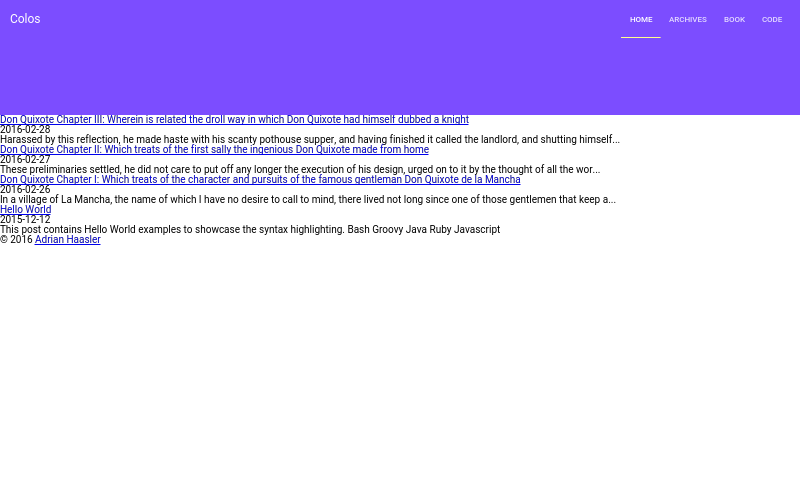
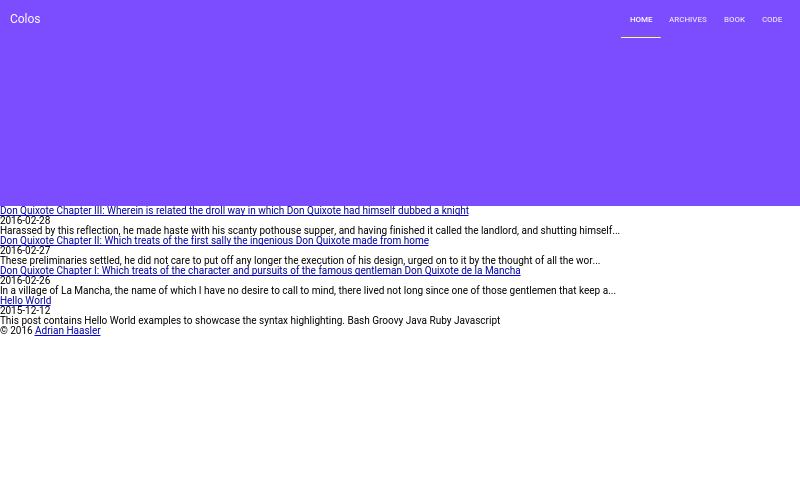
Adjust CSS to app-header and app-toolbar
This is part of #26.

Built from 201981ce1fae1920d449608d9d366b36f91c0955.

Changed region(s): [[0.0, 0.21, 1.0, 0.69]]

diff --git a/source/css/main.css b/source/css/main.css
@@ -3,4 +3,4 @@ http://meyerweb.com/eric/tools/css/reset/
 v2.0 | 20110126
 License: none (public domain)
 */a,abbr,acronym,address,applet,article,aside,audio,b,big,blockquote,body,canvas,caption,center,cite,code,dd,del,details,dfn,div,dl,dt,em,embed,fieldset,figcaption,figure,footer,form,h1,h2,h3,h4,h5,h6,header,hgroup,html,i,iframe,img,ins,kbd,label,legend,li,mark,menu,nav,object,ol,output,p,pre,q,ruby,s,samp,section,small,span,strike,strong,sub,summary,sup,table,tbody,td,tfoot,th,thead,time,tr,tt,u,ul,var,video{margin:0;padding:0;border:0;font-size:100%;font:inherit;vertical-align:baseline}
-/* HTML5 display-role reset for older browsers */article,aside,details,figcaption,figure,footer,header,hgroup,menu,nav,section{display:block}body{line-height:1}ol,ul{list-style:none}blockquote,q{quotes:none}blockquote:after,blockquote:before,q:after,q:before{content:'';content:none}table{border-collapse:collapse;border-spacing:0}h1,h2,h3,h4,h5,h6{color:rgba(0,0,0,.9)}body{font-family:Roboto,sans-serif}app-drawer-layout>#contentContainer:not(.narrow){margin-left:0!important}app-drawer-layout>#contentContainer:not(.narrow)+app-drawer{visibility:hidden!important}app-drawer-layout>.narrow paper-tabs{display:none!important}app-toolbar{background-color:#7c4dff}app-toolbar a{color:#fff;text-decoration:none}app-toolbar paper-tabs{height:100%!important}app-toolbar paper-tabs paper-tab{text-transform:uppercase}app-toolbar paper-tabs paper-tab[link] a{padding:0 1em}.highlight,pre{background:#212121;color:#f5f5f5}.highlight .string,pre .string{color:#ffeb3b}.highlight .comment,pre .comment{color:#727272}.highlight .keyword,pre .keyword{color:#ff4081}.highlight .built_in,pre .built_in{color:#00bcd4}.highlight .number,.literal,pre .number{color:#7c4dff}.highlight.bash .shebang,pre.bash .shebang{color:#727272}.highlight.bash .variable,pre.bash .variable{color:#b6b6b6}.highlight.bash .title,pre.bash .title{color:#8bc34a}
+/* HTML5 display-role reset for older browsers */article,aside,details,figcaption,figure,footer,header,hgroup,menu,nav,section{display:block}body{line-height:1}ol,ul{list-style:none}blockquote,q{quotes:none}blockquote:after,blockquote:before,q:after,q:before{content:'';content:none}table{border-collapse:collapse;border-spacing:0}h1,h2,h3,h4,h5,h6{color:rgba(0,0,0,.9)}body{font-family:Roboto,sans-serif}app-drawer-layout>#contentContainer:not(.narrow){margin-left:0!important}app-drawer-layout>#contentContainer:not(.narrow)+app-drawer{visibility:hidden!important}app-drawer-layout>.narrow paper-tabs{display:none!important}app-header{color:#fff;background-color:#7c4dff}app-toolbar.middle{height:10em}app-toolbar.bottom{height:4em}app-toolbar a{color:#fff;text-decoration:none}app-toolbar [title]{position:absolute;margin-left:2em;font-size:1.6em;font-weight:300}app-toolbar [condensed-title]{margin-left:1.2em;font-weight:300}app-toolbar paper-tabs{height:100%!important}app-toolbar paper-tabs paper-tab{text-transform:uppercase}app-toolbar paper-tabs paper-tab[link] a{padding:0 1em}.highlight,pre{background:#212121;color:#f5f5f5}.highlight .string,pre .string{color:#ffeb3b}.highlight .comment,pre .comment{color:#727272}.highlight .keyword,pre .keyword{color:#ff4081}.highlight .built_in,pre .built_in{color:#00bcd4}.highlight .number,.literal,pre .number{color:#7c4dff}.highlight.bash .shebang,pre.bash .shebang{color:#727272}.highlight.bash .variable,pre.bash .variable{color:#b6b6b6}.highlight.bash .title,pre.bash .title{color:#8bc34a}
